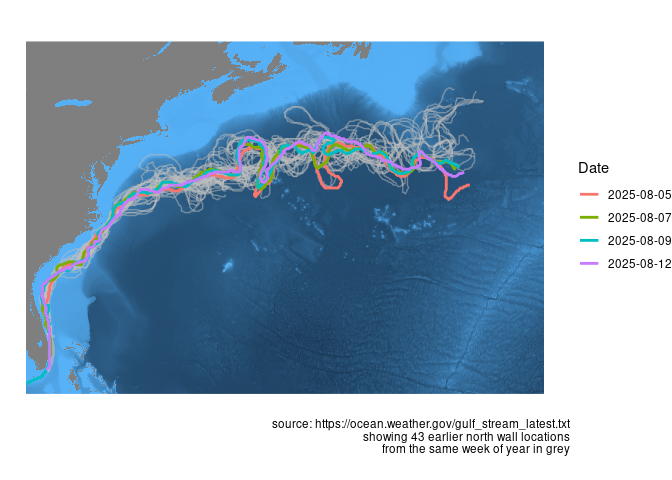
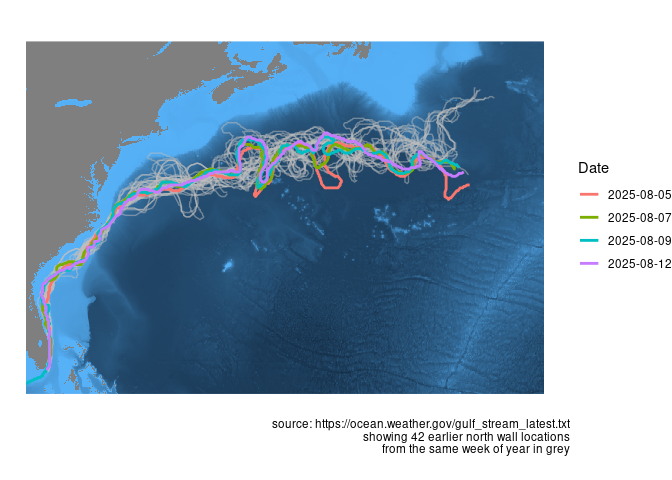
reduce size of etopo basemap, rerun README

diff --git a/README.md b/README.md
@@ -426,4 +426,8 @@ plot_week()
     ## Warning: attribute variables are assumed to be spatially constant throughout
     ## all geometries
 
+    ## Warning in stars::st_warp(x, cellsize = d[1:2] * m, use_gdal = TRUE,
+    ## no_data_value = NA_real_, : no_data_value not set: missing values will appear
+    ## as zero values
+
 ![](README_files/figure-gfm/unnamed-chunk-17-1.png)<!-- -->
